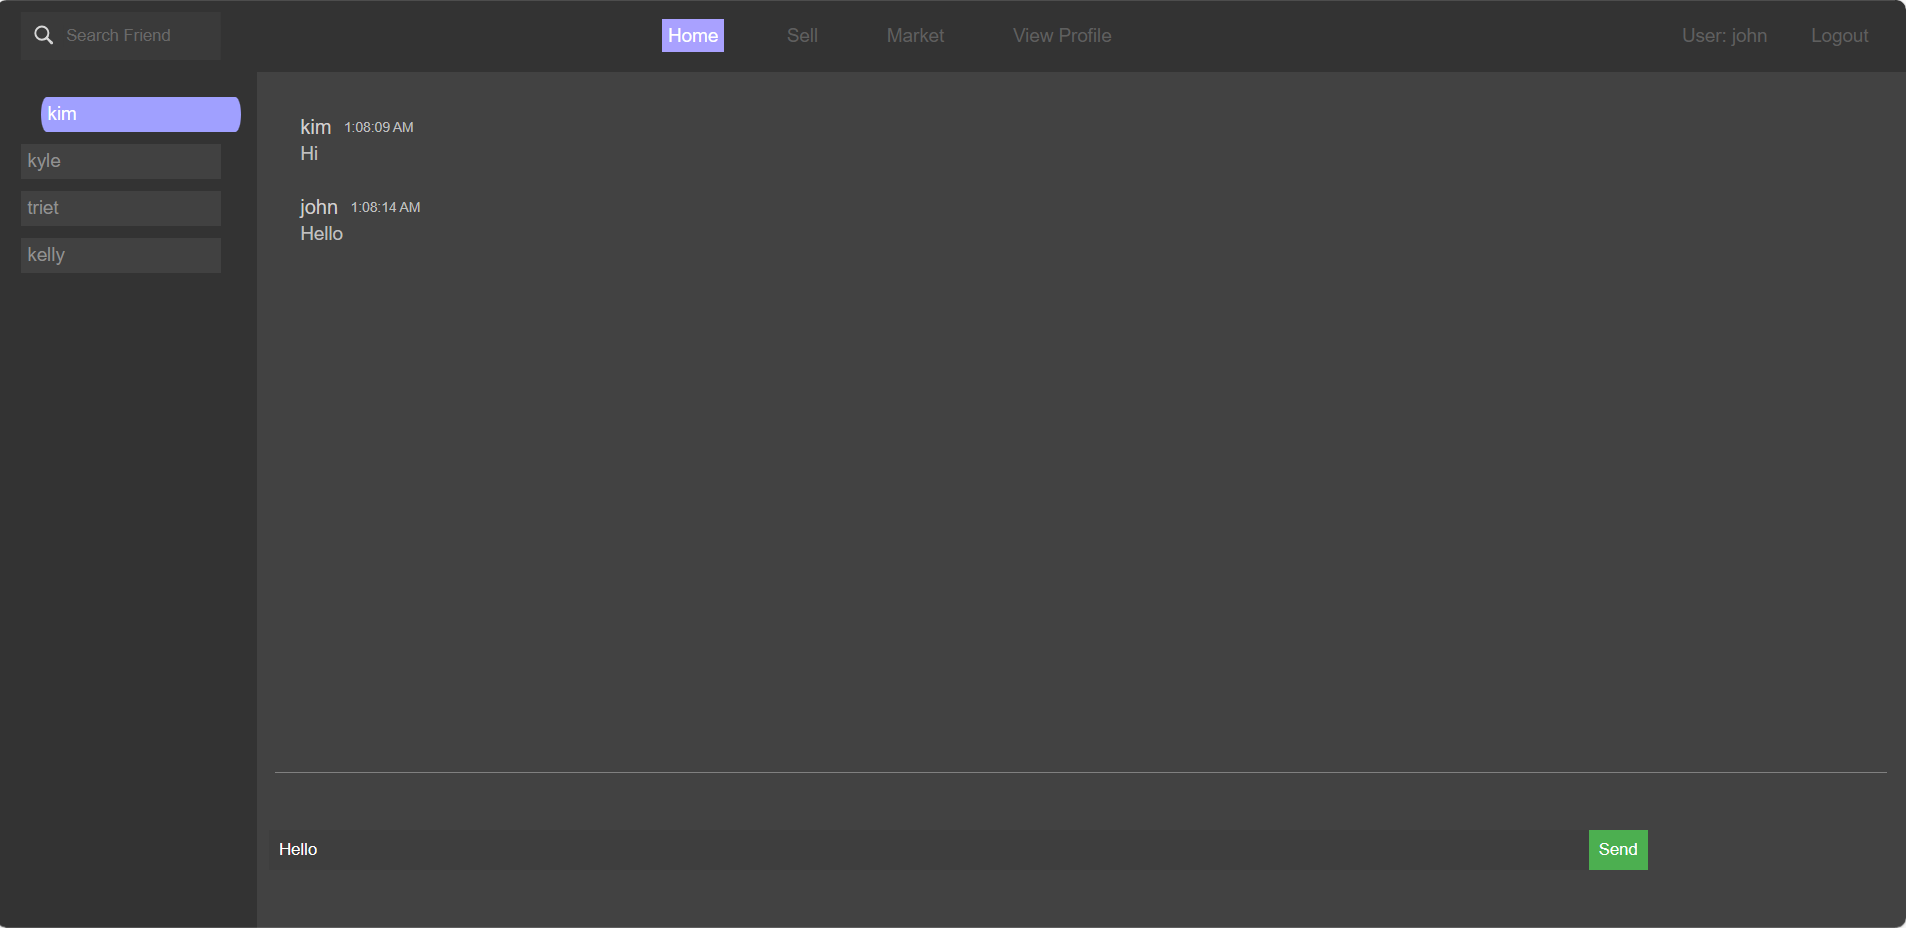
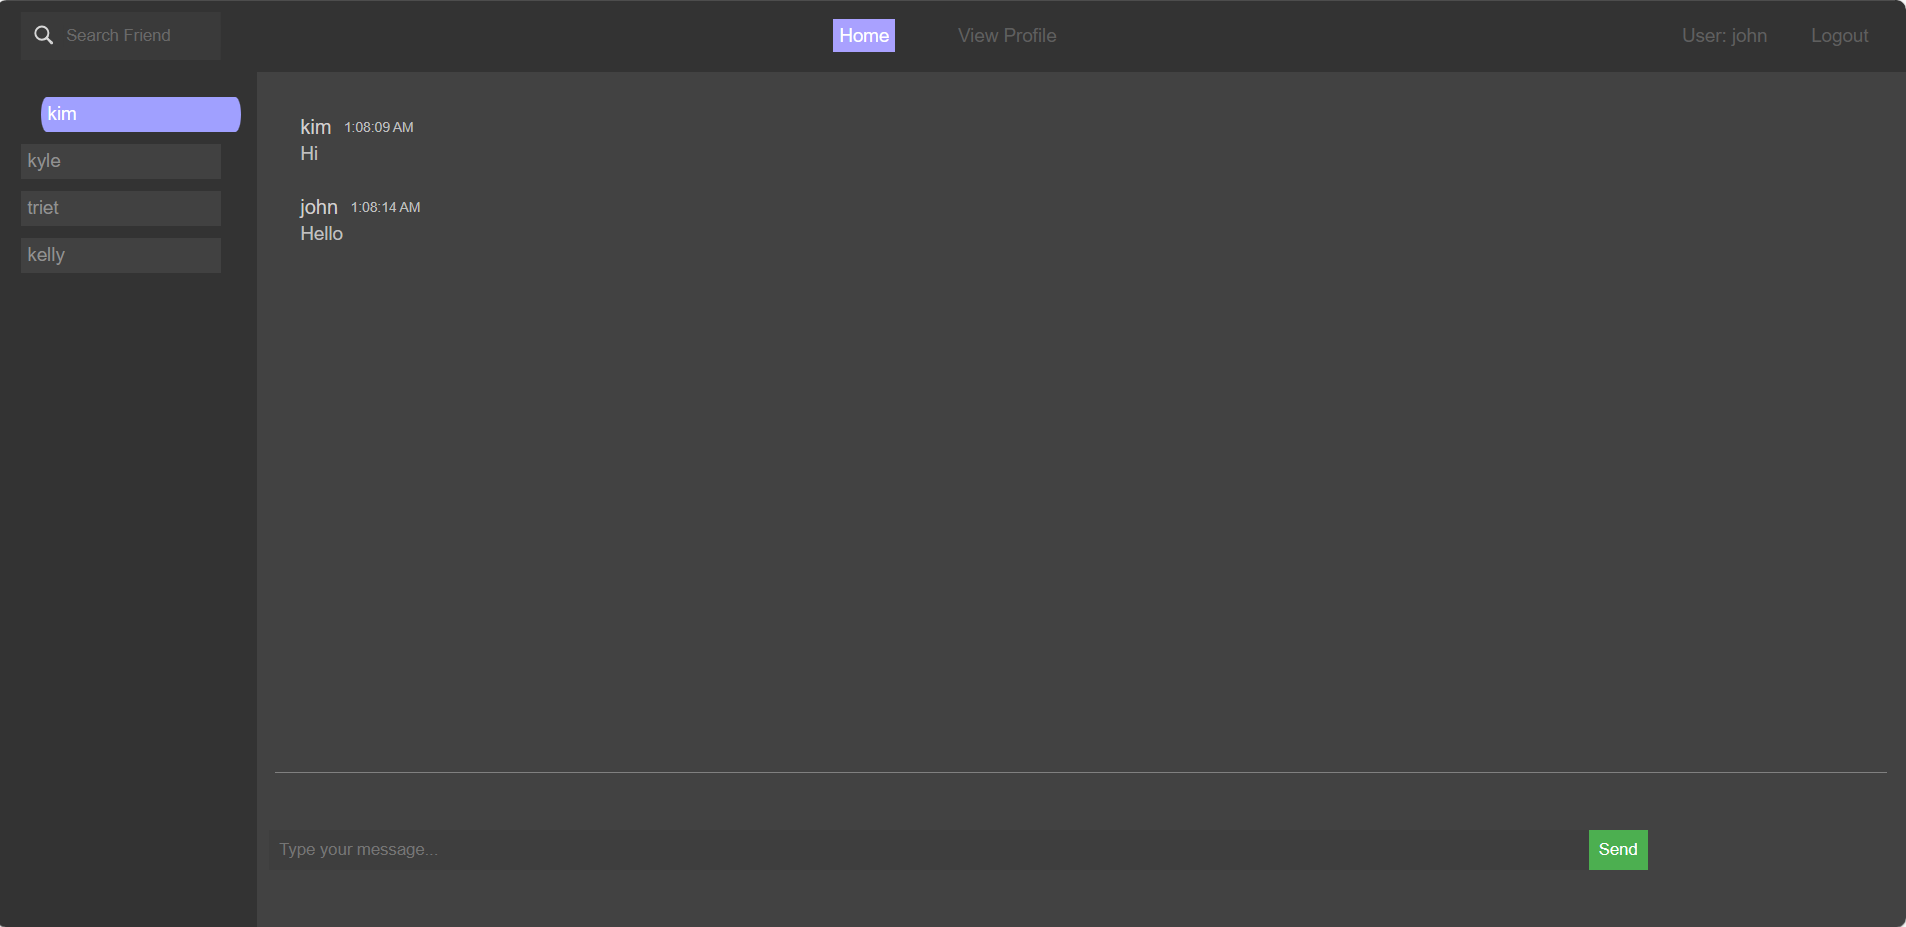
update readme

diff --git a/FrontEnd/src/components/Navbar.js b/FrontEnd/src/components/Navbar.js
@@ -25,12 +25,12 @@ function Navbar({ name }) {
         <li className="nav-container-middle-list">
           <NavLink to="/home">Home</NavLink>
         </li>
-        <li className="nav-container-middle-list">
+        {/* <li className="nav-container-middle-list">
           <NavLink to="/sell">Sell</NavLink>
         </li>
         <li className="nav-container-middle-list">
           <NavLink to="/market">Market</NavLink>
-        </li>
+        </li> */}
         <li className="nav-container-middle-list">
           <NavLink to="/viewProfile">View Profile</NavLink>
         </li>

diff --git a/FrontEnd/src/components/Navbar.css b/FrontEnd/src/components/Navbar.css
@@ -60,6 +60,7 @@
     display: flex;
     gap:30px;
     align-items: center;
+    justify-content: center;
   }
 .nav-container-middle-list {
     margin-left: 15px; 
